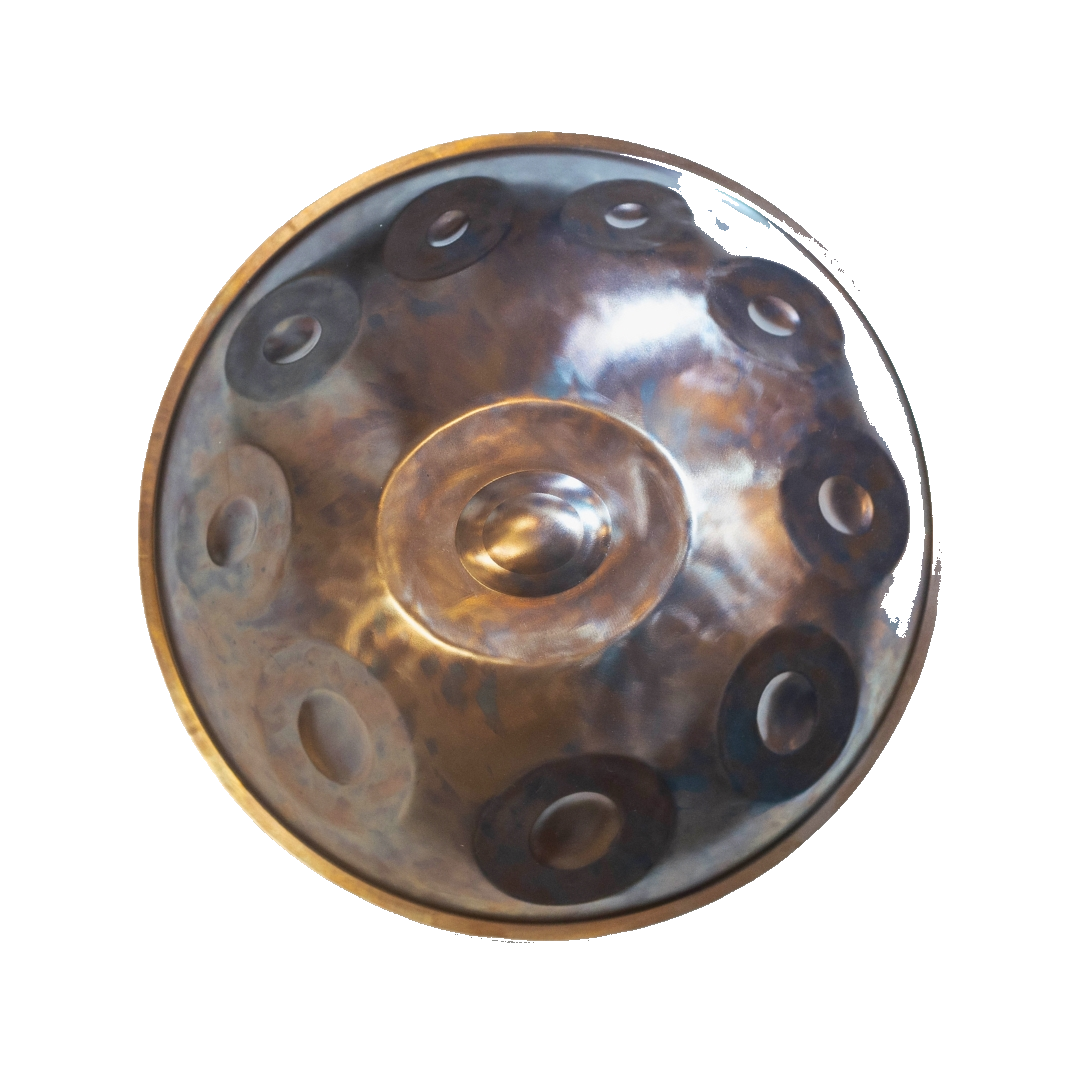
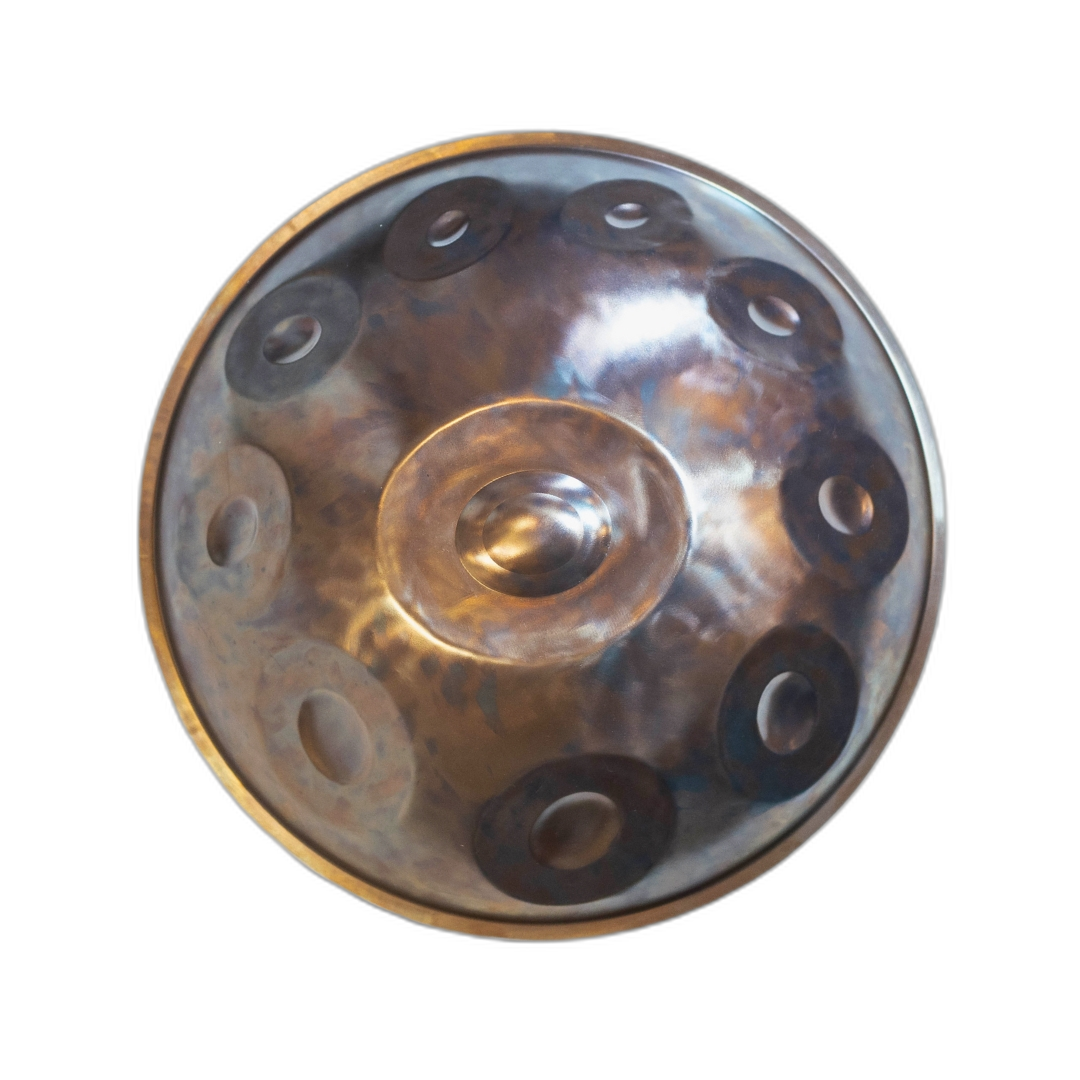
Regenerate product PNGs with rembg for clean transparent cutouts.
AI segmentation preserves handpan and bag detail; catalog and playground use PNG on transparent frames.

diff --git a/src/lib/scales/handpan-playground-scales.ts b/src/lib/scales/handpan-playground-scales.ts
@@ -19,14 +19,14 @@ export const HANDPAN_PLAYGROUND_SCALES: HandpanPlaygroundScale[] = [
   {
     id: "d-kurd",
     name: "D Kurd",
-    backgroundImageSrc: "/products/d-kurd-10.jpg",
+    backgroundImageSrc: "/products/d-kurd-10.png",
     ding: "D3",
     fields: ["A3", "Bb3", "C4", "D4", "E4", "F4", "G4", "A4"],
   },
   {
     id: "c-major",
     name: "C Major",
-    backgroundImageSrc: "/products/d-kurd-12.jpg",
+    backgroundImageSrc: "/products/d-kurd-12.png",
     ding: "C3",
     fields: ["E3", "G3", "C4", "E4", "G4", "C5", "D4"],
   },
@@ -40,28 +40,28 @@ export const HANDPAN_PLAYGROUND_SCALES: HandpanPlaygroundScale[] = [
   {
     id: "b-amara",
     name: "B Amara",
-    backgroundImageSrc: "/products/b-amara-9.jpg",
+    backgroundImageSrc: "/products/b-amara-9.png",
     ding: "B2",
     fields: ["D#3", "F#3", "A3", "B3", "D#4", "F#4", "A4"],
   },
   {
     id: "d-celtic-minor",
     name: "D Celtic minor",
-    backgroundImageSrc: "/products/d-kurd-10.jpg",
+    backgroundImageSrc: "/products/d-kurd-10.png",
     ding: "D3",
     fields: ["A3", "C4", "D4", "E4", "F4", "G4", "A4"],
   },
   {
     id: "f-pygmy",
     name: "F Pygmy",
-    backgroundImageSrc: "/products/f-sharp-pygmy-17.jpg",
+    backgroundImageSrc: "/products/f-sharp-pygmy-17.png",
     ding: "F3",
     fields: ["Ab3", "C4", "Eb4", "F4", "G4", "Ab4", "C5"],
   },
   {
     id: "d-kurd-bottom",
     name: "D Kurd (with bottom)",
-    backgroundImageSrc: "/products/d-kurd-10.jpg",
+    backgroundImageSrc: "/products/d-kurd-10.png",
     ding: "D3",
     fields: ["A3", "Bb3", "C4", "D4", "E4", "F4", "G4", "A4"],
     bottom: ["A2", "C3"],

diff --git a/src/lib/products.ts b/src/lib/products.ts
@@ -38,8 +38,9 @@ export type Product = {
   heroImageUrl: string;
 };
 
-/** Product photography: `public/products/` (studio JPG; shown on card-toned frames). */
-const PHOTO = (file: string) => `/products/${file}`;
+/** Product photography: PNG cutouts from `scripts/process-product-pngs.py` (rembg). */
+const PHOTO = (file: string) =>
+  `/products/${file.replace(/\.jpe?g$/i, ".png")}`;
 
 /** Seed catalog — replace with CMS when wired */
 export const products: Product[] = [

diff --git a/src/app/globals.css b/src/app/globals.css
@@ -169,7 +169,7 @@
     overflow: hidden;
     border-radius: var(--radius);
     border: 1px solid var(--color-border);
-    background: var(--color-card);
+    background: transparent;
   }
 
   .product-photo {

diff --git a/scripts/process-product-pngs.py b/scripts/process-product-pngs.py
@@ -1,92 +1,22 @@
 #!/usr/bin/env python3
-"""Regenerate product PNGs: edge white flood + neutral gray/white flood only."""
+"""Generate transparent PNG product cutouts from studio JPGs using rembg."""
 
 from __future__ import annotations
 
-from collections import deque
+from io import BytesIO
 from pathlib import Path
 
 from PIL import Image
+from rembg import remove
 
 PRODUCTS_DIR = Path(__file__).resolve().parents[1] / "public" / "products"
-WHITE_EDGE = 245
-MIN_NEUTRAL = 140
-MAX_CHROMA = 38
-
-
-def is_white_edge(r: int, g: int, b: int) -> bool:
-    return r >= WHITE_EDGE and g >= WHITE_EDGE and b >= WHITE_EDGE
-
-
-def is_neutral_light(r: int, g: int, b: int) -> bool:
-    avg = (r + g + b) / 3
-    if avg < MIN_NEUTRAL:
-        return False
-    return max(r, g, b) - min(r, g, b) <= MAX_CHROMA
-
-
-def edge_flood(img: Image.Image) -> Image.Image:
-    img = img.convert("RGBA")
-    w, h = img.size
-    pixels = img.load()
-    visited = [[False] * w for _ in range(h)]
-    queue: deque[tuple[int, int]] = deque()
-
-    def seed(x: int, y: int) -> None:
-        if 0 <= x < w and 0 <= y < h and not visited[y][x]:
-            r, g, b, _ = pixels[x, y]
-            if is_white_edge(r, g, b):
-                visited[y][x] = True
-                queue.append((x, y))
-
-    for x in range(w):
-        seed(x, 0)
-        seed(x, h - 1)
-    for y in range(h):
-        seed(0, y)
-        seed(w - 1, y)
-
-    while queue:
-        x, y = queue.popleft()
-        r, g, b, _ = pixels[x, y]
-        pixels[x, y] = (r, g, b, 0)
-        for nx, ny in ((x + 1, y), (x - 1, y), (x, y + 1), (x, y - 1)):
-            if 0 <= nx < w and 0 <= ny < h and not visited[ny][nx]:
-                r2, g2, b2, _ = pixels[nx, ny]
-                if is_white_edge(r2, g2, b2):
-                    visited[ny][nx] = True
-                    queue.append((nx, ny))
-    return img
-
-
-def neutral_flood(img: Image.Image) -> Image.Image:
-    w, h = img.size
-    pixels = img.load()
-    visited = [[False] * w for _ in range(h)]
-    queue: deque[tuple[int, int]] = deque()
-    for y in range(h):
-        for x in range(w):
-            if pixels[x, y][3] == 0:
-                visited[y][x] = True
-                queue.append((x, y))
-    while queue:
-        x, y = queue.popleft()
-        for nx, ny in ((x + 1, y), (x - 1, y), (x, y + 1), (x, y - 1)):
-            if 0 <= nx < w and 0 <= ny < h and not visited[ny][nx]:
-                r, g, b, a = pixels[nx, ny]
-                if a == 0:
-                    visited[ny][nx] = True
-                    queue.append((nx, ny))
-                    continue
-                if is_neutral_light(r, g, b):
-                    visited[ny][nx] = True
-                    pixels[nx, ny] = (r, g, b, 0)
-                    queue.append((nx, ny))
-    return img
 
 
 def process(src: Path) -> Image.Image:
-    return neutral_flood(edge_flood(Image.open(src)))
+    raw = src.read_bytes()
+    cutout = remove(raw)
+    img = Image.open(BytesIO(cutout)).convert("RGBA")
+    return img
 
 
 def main() -> None:
